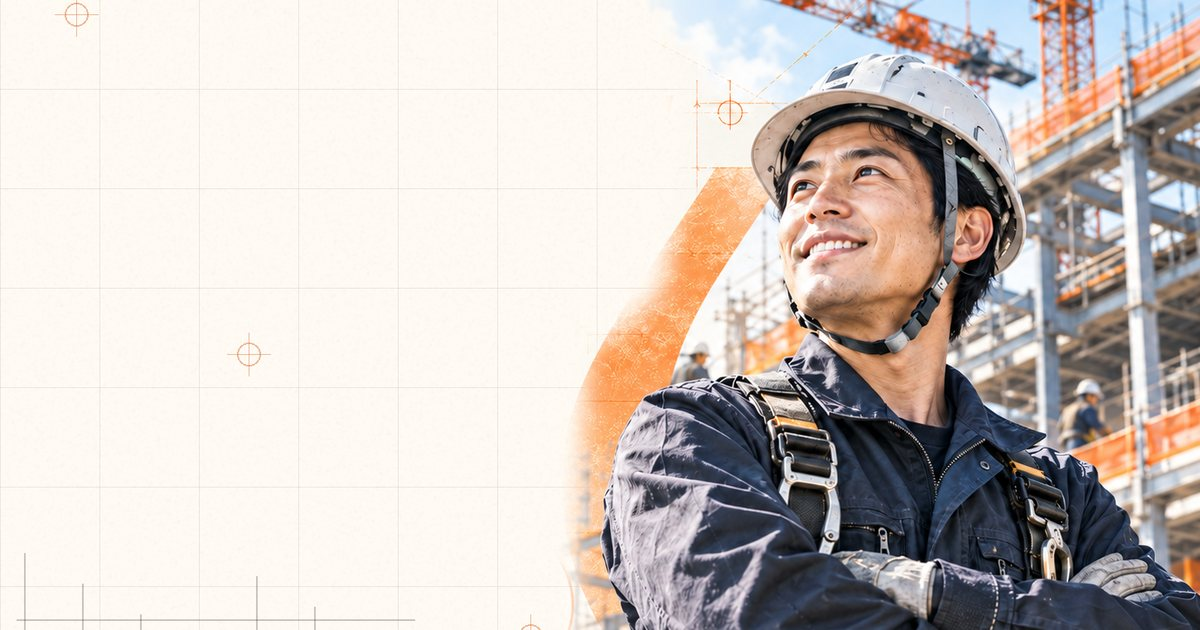
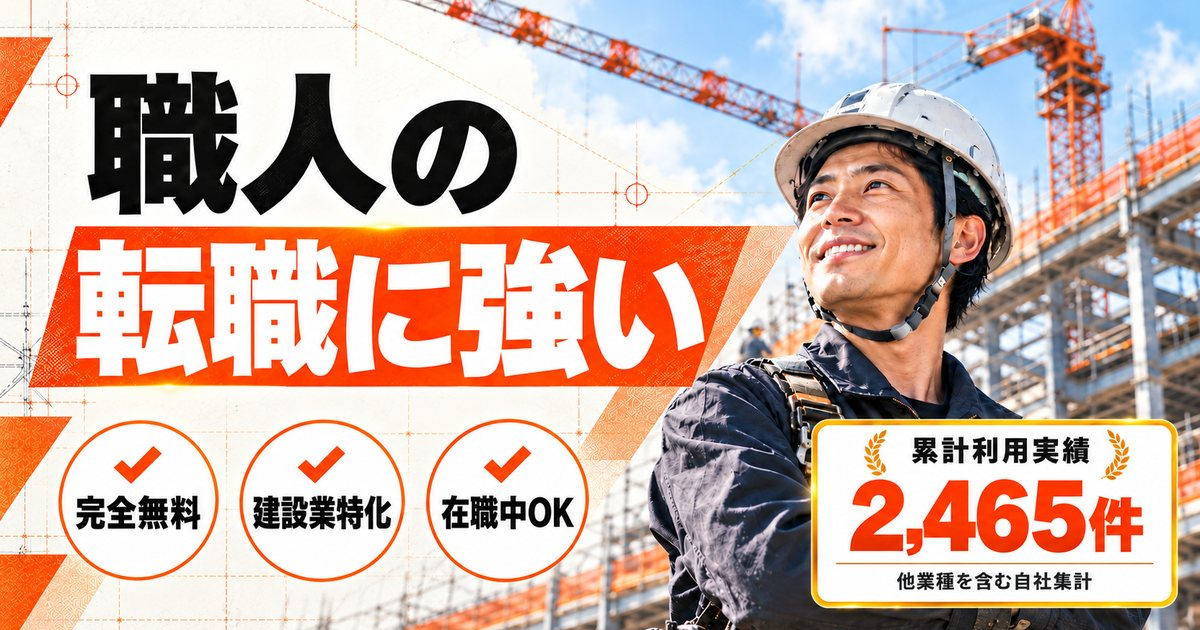
職人登録LP：FV画像を差し替え、サービス説明を削除。企業向けLP：下線を薄い赤に変更

diff --git a/components/shokunin-entry/EntryContent.tsx b/components/shokunin-entry/EntryContent.tsx
@@ -4,7 +4,7 @@ import { useCallback, useEffect, useLayoutEffect, useMemo, useRef, useState, typ
 import { Check } from "lucide-react";
 import { PREFECTURES, birthYearOptions, isValidEmail, normalizeDriverPhone, normalizePostalCode } from "@/components/driver/questions";
 import { fireAdofyLead } from "@/lib/analytics/adofyPixel";
-import { ChoiceButton, EntryFooter, EntryHeader, NextButton, Question, QuestionHead, ServiceFlow, StepHeader } from "./parts";
+import { ChoiceButton, EntryFooter, EntryHeader, NextButton, Question, QuestionHead, StepHeader } from "./parts";
 import {
   AREA_PREFECTURES,
   CONTACT_TIMES,
@@ -305,8 +305,6 @@ function StepBody({ children }: { children: ReactNode }) {
   return <section className="se-step">{children}</section>;
 }
 
-const FV_POINTS = ["登録・利用は完全無料", "建設業に特化", "面接するかは自分で決められる"];
-
 function Hero({
   motivation,
   desiredTiming,
@@ -332,39 +330,16 @@ function Hero({
     <section>
       <EntryHeader />
       <div className="se-hero">
-        {/* eslint-disable-next-line @next/next/no-img-element -- 画像全体を4:3で崩さず見せるFV。遅延読み込みしない */}
-        <img src="/images/shokunin-entry/hero.webp" alt="建設現場で腕を組み、笑顔で上を見る職人" width={1200} height={900} fetchPriority="high" decoding="async" />
-        <div className="se-hero__copy">
-          <h1>
-            <span className="se-hero__small">建設職人の</span>
-            <span className="se-hero__main">転職に強い</span>
-          </h1>
-          <p>
-            経験を活かして、
-            <br />
-            今より良い条件の会社へ。
-          </p>
-        </div>
-      </div>
-      <ul className="se-points">
-        {FV_POINTS.map((p) => (
-          <li key={p}>
-            <Check aria-hidden="true" strokeWidth={3.4} />
-            {p}
-          </li>
-        ))}
-      </ul>
-
-      <div className="se-about">
-        <h2>企業から選ばれる、職人の転職サービス</h2>
-        <p>
-          職種・経験・資格・希望条件を無料登録。あなたの匿名プロフィールを見た建設会社が面接を希望した場合、adofyが企業の採用担当としてご連絡します。仕事内容と条件を確認してから、面接を受けるか自分で決められます。
-        </p>
-        <ul className="se-safe">
-          <li>登録しただけで現在の勤務先に知られることはありません</li>
-          <li>氏名・電話番号などの個人情報を、本人の同意なく求人企業へ公開しません</li>
-        </ul>
-        <ServiceFlow />
+        {/* eslint-disable-next-line @next/next/no-img-element -- 画像全体を崩さず見せるFV。遅延読み込みしない */}
+        <img
+          src="/images/shokunin-entry/hero-v2.webp"
+          alt="職人の転職に強い。完全無料、建設業特化、在職中OK。累計利用実績2,465件（他業種を含む自社集計）"
+          width={1200}
+          height={675}
+          fetchPriority="high"
+          decoding="async"
+        />
+        <h1 className="se-sr">建設職人の転職に強い</h1>
       </div>
 
       <div className="se-step se-step--first">

diff --git a/app/shokunin-entry/entry.css b/app/shokunin-entry/entry.css
@@ -51,64 +51,9 @@
 .se-header__name em { color: var(--se-orange-text); font-style: normal; }
 .se-header__sub { display: block; font-size: 10.5px; font-weight: 700; color: var(--se-mute); }
 
-/* ファーストビュー。画像は4:3のまま、左の余白にコピーを重ねる */
-.se-hero { position: relative; aspect-ratio: 4 / 3; container-type: inline-size; background: var(--se-paper-2); overflow: hidden; }
+/* ファーストビュー。画像は比率を保って全体を見せる（コピーは画像内） */
+.se-hero { aspect-ratio: 16 / 9; background: var(--se-paper-2); }
 .se-hero img { display: block; width: 100%; height: auto; }
-.se-hero__copy { position: absolute; left: 4.5cqw; top: 10cqw; width: 52cqw; }
-.se-hero h1 { font-weight: 900; line-height: 1.1; color: var(--se-ink); }
-.se-hero__small { display: block; font-size: 8.4cqw; letter-spacing: 0.02em; }
-.se-hero__main {
-  display: inline-block;
-  margin: 2.2cqw 0 0 -1cqw;
-  padding: 1.6cqw 3.2cqw 1.8cqw;
-  font-size: 9.2cqw;
-  white-space: nowrap;
-  color: #fff;
-  background: var(--se-orange);
-  transform: skewX(-6deg);
-}
-.se-hero p { margin-top: 3.6cqw; font-size: 3.8cqw; font-weight: 800; line-height: 1.5; color: var(--se-ink); }
-
-.se-points { display: grid; grid-template-columns: repeat(3, 1fr); background: var(--se-ink); }
-.se-points li {
-  display: flex;
-  align-items: center;
-  justify-content: center;
-  gap: 3px;
-  min-height: 44px;
-  padding: 5px 4px;
-  font-size: 11px;
-  font-weight: 800;
-  line-height: 1.3;
-  color: #fff;
-  word-break: keep-all;
-}
-.se-points li + li { border-left: 1px solid rgba(255, 255, 255, 0.22); }
-.se-points svg { width: 13px; height: 13px; flex: none; color: var(--se-orange-text); }
-
-/* サービス説明（質問の前に短く） */
-.se-about { padding: 14px 16px 12px; background: var(--se-paper-2); border-bottom: 1px solid var(--se-line); }
-.se-about h2 { font-size: 17px; font-weight: 900; line-height: 1.4; color: var(--se-ink); text-align: center; }
-.se-about > p { margin-top: 7px; font-size: 12.5px; line-height: 1.65; }
-.se-safe { margin-top: 8px; display: grid; gap: 3px; }
-.se-safe li { position: relative; padding-left: 15px; font-size: 11.5px; font-weight: 700; line-height: 1.45; }
-.se-safe li::before {
-  content: "";
-  position: absolute;
-  left: 2px;
-  top: 3px;
-  width: 6px;
-  height: 9px;
-  border: solid var(--se-orange);
-  border-width: 0 2px 2px 0;
-  transform: rotate(40deg);
-}
-.se-flow { margin-top: 10px; display: grid; grid-template-columns: repeat(4, 1fr); gap: 6px; }
-.se-flow li { min-width: 0; text-align: center; }
-.se-flow__icon { display: grid; place-items: center; width: 32px; height: 32px; margin: 0 auto 4px; background: var(--se-ink); color: #fff; }
-.se-flow svg { width: 19px; height: 19px; fill: none; stroke: currentColor; stroke-width: 1.8; stroke-linecap: round; stroke-linejoin: round; }
-.se-flow__text { display: block; font-size: 10px; font-weight: 700; line-height: 1.35; }
-.se-flow__text b { margin-right: 2px; color: var(--se-orange-deep); }
 
 /* 質問 */
 .se-step { padding: 22px 18px 30px; display: flex; flex-direction: column; gap: 34px; animation: se-in 0.28s ease-out; }

diff --git a/components/shokunin-entry/parts.tsx b/components/shokunin-entry/parts.tsx
@@ -155,33 +155,3 @@ export function NextButton({ onClick, error, label = "次へ進む" }: { onClick
     </div>
   );
 }
-
-const ICONS = [
-  <path key="0" d="M8 4h8v3H8zM6 5.5H4.5V21h15V5.5H18M8 12h8M8 16h5" />,
-  <path key="1" d="M3 5h18v14H3zM12 15a2.5 2.5 0 1 0 0-.01M7 19c.6-2.2 2.6-3 5-3s4.4.8 5 3" />,
-  <path key="2" d="M6 3h3l1.5 5-2 1.5a12 12 0 0 0 6 6l1.5-2 5 1.5v3c0 1-.8 2-2 2C10 20 4 13 4 5c0-1.2 1-2 2-2z" />,
-  <path key="3" d="M4 12l5 5L20 6" />,
-];
-
-const FLOW = ["職種・経験・希望条件を登録", "企業が匿名プロフィールを確認", "面接希望が届いた場合にadofyから連絡", "条件を確認して面接するか決定"];
-
-/** サービスの流れ（4つの小さなアイコン） */
-export function ServiceFlow() {
-  return (
-    <ol className="se-flow" aria-label="サービスの流れ">
-      {FLOW.map((t, i) => (
-        <li key={t}>
-          <span className="se-flow__icon">
-            <svg viewBox="0 0 24 24" aria-hidden="true">
-              {ICONS[i]}
-            </svg>
-          </span>
-          <span className="se-flow__text">
-            <b>{i + 1}</b>
-            {t}
-          </span>
-        </li>
-      ))}
-    </ol>
-  );
-}

diff --git a/app/shokunin-agent/shokunin.css b/app/shokunin-agent/shokunin.css
@@ -1072,10 +1072,10 @@
   box-shadow: 0 2px 0 var(--sa-cta-deep);
 }
 
-/* 太字（強調語句）は下線を太くし、影を付ける */
+/* 太字（強調語句）は下線を太い薄赤にし、影を付ける */
 .sa-lp .sa-em,
 .sa-lp .sa-cost__hl {
-  background: linear-gradient(transparent 52%, rgba(255, 196, 0, 0.6) 52%);
+  background: linear-gradient(transparent 52%, rgba(255, 110, 110, 0.5) 52%);
   text-shadow: 2px 2px 0 rgba(28, 27, 25, 0.32);
 }
 
@@ -1086,5 +1086,5 @@
 
 .sa-lp .ks-head--invert .sa-em,
 .sa-lp .ks-contact__title .sa-em {
-  background: linear-gradient(transparent 52%, rgba(255, 196, 0, 0.42) 52%);
+  background: linear-gradient(transparent 52%, rgba(255, 130, 130, 0.42) 52%);
 }
